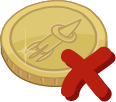
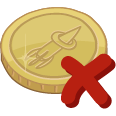
Compiled stroke fix, insufficient coins in crops

diff --git a/Spacefarm/assets/www/farming/sceneClone.js b/Spacefarm/assets/www/farming/sceneClone.js
@@ -98,7 +98,9 @@ farming.SceneClone.prototype.drawItem = function(slide, item, position) {
         var icon = new farming.Sprite('images/lock.png').setSize(60*0.5, 85*0.5).setPosition(position.x + 80, position.y - 55);
         slide.appendChild(icon)
     } else {
-        var icon = new farming.Sprite('images/coin_bright.png').setSize(40, 40).setPosition(position.x + 75, position.y - 55);
+        var icon = new farming.Sprite('images/coin_bright.png')
+            .setSize(40, 40).setPosition(position.x + 75, position.y - 55);
+        if(item.cost > this.game.player.coins) icon.setSize(50,50).setFill('images/coin_insufficient.png');
         var coins = new lime.Label(item.cost).setSize(20, 20).setPosition(position.x + 75, position.y - 56).setFontSize(20)
         slide.appendChild(icon).appendChild(coins);
         if(!isCrop) this.drawFood(slide, item.food, position);

diff --git a/Spacefarm/assets/www/farming/settings.js b/Spacefarm/assets/www/farming/settings.js
@@ -17,7 +17,7 @@ var SETTINGS = {
     },
     createWindow : function(){
         return new lime.RoundedRect().setRadius(9).setFill(SETTINGS.color.background_layer)
-            .setStroke(SETTINGS.color.background_stroke)//.preventClickThrough()
+            .setStroke(new lime.fill.Stroke(3, SETTINGS.color.background_stroke))//.preventClickThrough()
             .setSize(SETTINGS.size.background_layer).setPosition(400,(480 - SETTINGS.size.controls.height) / 2);
     },
     createOverlay : function(){
@@ -28,7 +28,7 @@ var SETTINGS = {
         tile: '#b08251',
         background_layer: '#f0f0f0',
         background_overlay: 'rgba(71,25,11,0.5)',
-        background_stroke: new lime.fill.Stroke(3, '#662c1b'),
+        background_stroke: '#662c1b',
         button_primary: 'green',
         button_inactive: 'inactive',
         button: '#999999',

diff --git a/Spacefarm/assets/www/farming/crop.js b/Spacefarm/assets/www/farming/crop.js
@@ -130,8 +130,8 @@ var CROPS = {
         name: 'Space Carrots',
         key: 'carrot',
         growth_phases: 4,
-        cost: 20,
-        revenue: 35,
+        cost: 30,
+        revenue: 50,
         revenue_item: 'carrot',
         time_to_ripe: 45 * SETTINGS.timeUnit(),
         harvests: 1,
